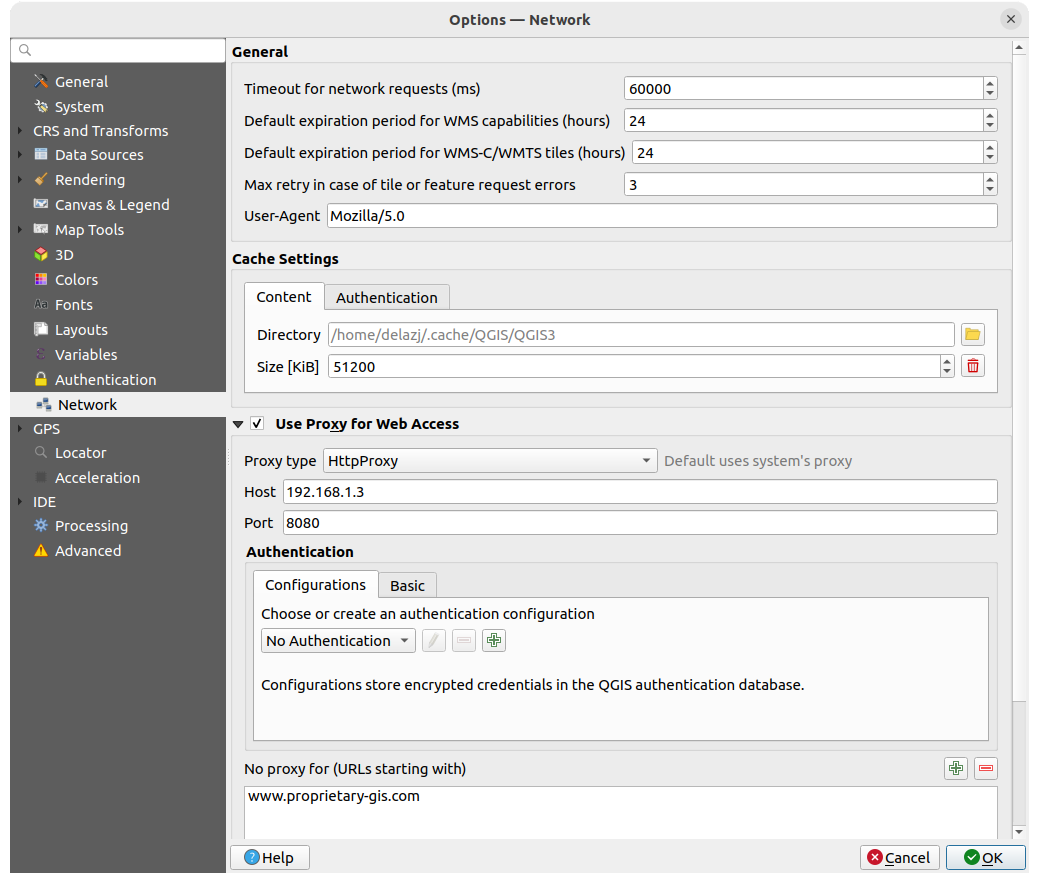
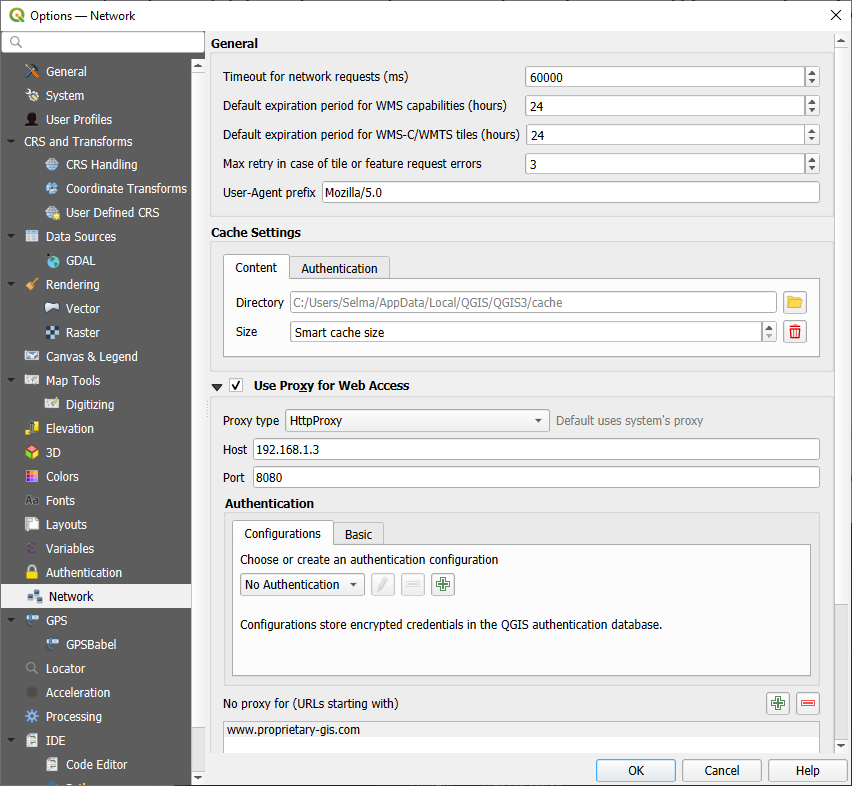
Smart Cache Size

Changed region(s): [[0.0, 0.0, 1.0, 1.0], [0.4272, 0.0, 0.5798, 0.0305]]

diff --git a/docs/user_manual/introduction/qgis_configuration.rst b/docs/user_manual/introduction/qgis_configuration.rst
@@ -1204,7 +1204,9 @@ Network settings
 
 **Cache settings**
 
-Defines the :guilabel:`Directory` and a :guilabel:`Size` for the cache.
+Defines the :guilabel:`Directory` and a :guilabel:`Size` for the cache specified in megabytes.
+You can clear the value to enable the :guilabel:`Smart cache size`,
+which sets the maximum cache size based on available disk space.
 Also offers tools to :guilabel:`automatically clear the connection authentication
 cache on SSL errors (recommended)`.
 
